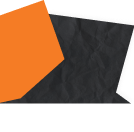
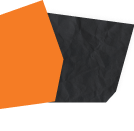
feat: add clue pictures

diff --git a/src/views/QuestionView.vue b/src/views/QuestionView.vue
@@ -118,7 +118,7 @@ header {
   &__img {
     position: absolute;
     left: 0;
-    top: 36px;
+    top: 80px;
   }
 }
 
